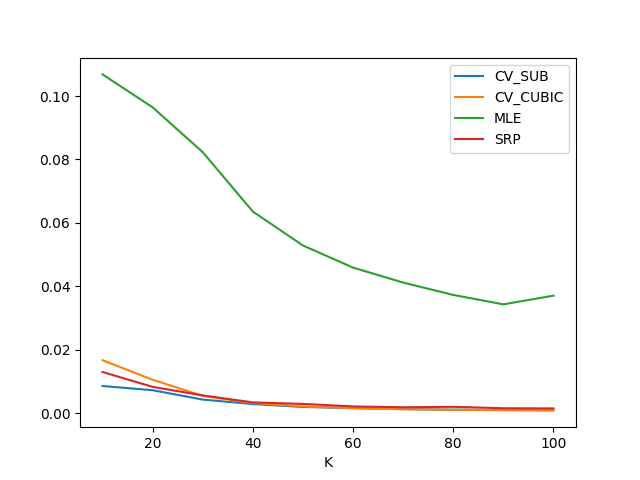
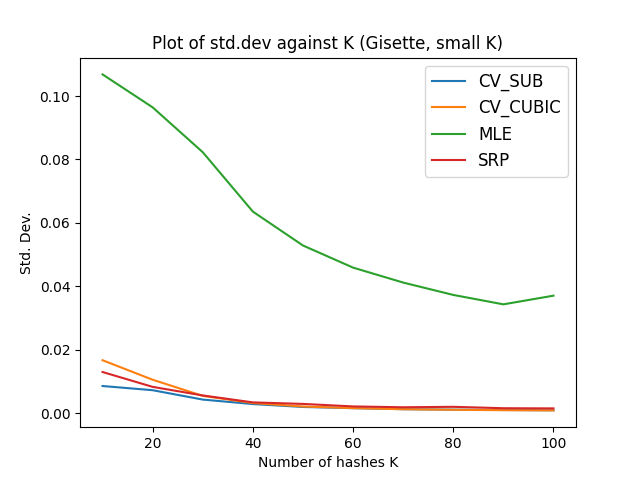
update readme, update figures

Changed region(s): [[0.2188, 0.0625, 0.9062, 0.375], [0.4062, 0.9375, 0.625, 0.9688], [0.0312, 0.4375, 0.0625, 0.5625]]

diff --git a/final/compute_est_gpu.py b/final/compute_est_gpu.py
@@ -280,6 +280,10 @@ def main():
     # higher is better, to avoid the overhead from transferring from cpu to gpu as much as possible
     # for a 6gb gpu, mnist: 120000, gisette: 32000
     batch_size = 32000
+    
+    # set the size of dimensions to check
+    Ks = range(10, 101, 10)
+    # Ks = range(800, 1001, 50)
 
     # mnist dataset
     # data, (N, _) = load_mnist()
@@ -288,10 +292,6 @@ def main():
     data, (N, _) = load_gisette()
     
     total, iters = get_iterator(N, get_all=CALC_ALL)
-    
-    # set the size of dimensions to check
-    Ks = range(10, 101, 10)
-    # Ks = range(800, 1001, 50)
 
     # load rng_state (if needed)
     # rng_s = pickle.load(open('rng_state.out', 'rb'))
@@ -307,7 +307,7 @@ def main():
                 errs = sim_one_K(K, data, iters, total, batch_size)
                 f.write(f'{K},{i_num},{",".join(str(e) for e in errs)}\n')
     
-    # if pausing: just save numpy rng state so i can restore from this point in the future
+    # if pausing: just save numpy rng state so can restore from this point in the future
     # pickle.dump(np.random.get_state(), open('rng_state.out', 'wb'))
 
 

diff --git a/graph_data.py b/graph_data.py
@@ -3,7 +3,12 @@ import matplotlib.pyplot as plt
 import numpy as np
 
 if __name__ == '__main__':
-    data = pd.read_csv('out_mnist_L.csv')
+    data = pd.read_csv('final/results/data/out_mnist.csv')
+    # data = pd.read_csv('final/results/data/out_gisette.csv')
+
+    # data = pd.read_csv('final/results/data/out_mnist_L.csv')
+    # data = pd.read_csv('final/results/data/out_gisette_L.csv')
+
 
     col_names = ['CV_SUB', 'CV_CUBIC', 'MLE', 'SRP']
     # col_names = ['CV_CUBIC', 'MLE', 'SRP']
@@ -11,11 +16,15 @@ if __name__ == '__main__':
     # col_names = ['CV_CUBIC','SRP']
 
     # m_data = data.groupby('K')[col_names].mean()
-    m_data = 3 * data.groupby('K')[col_names].std(ddof=0)
-    print(m_data)
+    m_data = data.groupby('K')[col_names].std(ddof=0)
+    # print(m_data)
 
     # min_data = m_data.idxmin(axis=1)
     # print(min_data)
 
-    # m_data.plot()
-    # plt.show()
+    m_data.plot()
+    plt.title('Plot of std.dev against K (MNIST, small K)')
+    plt.xlabel('Number of hashes K')
+    plt.ylabel('Std. Dev.')
+    plt.legend(fontsize=12)
+    plt.show()

diff --git a/final/gisette.py b/final/gisette.py
@@ -1,8 +1,8 @@
 import numpy as np
-d1 = np.genfromtxt('data/gisette_train.data')
-d2 = np.genfromtxt('data/gisette_valid.data')
-d3 = np.genfromtxt('data/gisette_test.data')
+d1 = np.genfromtxt('gisette_train.data')
+d2 = np.genfromtxt('gisette_valid.data')
+d3 = np.genfromtxt('gisette_test.data')
 data = np.concatenate((d1, d2, d3), axis=0)
 
-with open('data/gisette.npy', 'wb') as f:
+with open('gisette.npy', 'wb') as f:
     np.save(f, data)

diff --git a/final/README.md b/final/README.md
@@ -1,26 +1,46 @@
-# Name of project
+# Control Variates with 1 Extra Vector
 
-Brief description
+## Abstract
+We present an alternative technique for similarity estimation under locality sensitive hashing schemes. By utilising control variates, we are able to achieve better theoretical variance reductions compared to methods that rely on maximum likelihood estimation. We show that our method obtains equivalent results, but slight modifications can provide better empirical results at lower dimensions. Finally, we compare the various methods' performances on the MNIST and Gisette dataset, and show that our model achieves better accuracy and stability.
 
-Insert other stuff here (like paper or whatever)
+*Paper to be added at a later date.*
 
 ## Requirements
+The code is written in Python3.
 
-pytorch
-numpy
-sklearn
-tqdm
+To install the required libraries, run `pip install -r requirements.txt`.
 
-(generate requirements.txt)
+The main libraries used are `numpy` and `pytorch`. Other libraries have been imported for ease of use.
 
-## How-to
+## Basic Instructions
+1) First download Gisette data from https://archive.ics.uci.edu/ml/machine-learning-databases/gisette/GISETTE/.
 
-Need to first download Gisette data at ...
+2) Run `mnist.py` to download MNIST dataset.
 
-Run mnist.py to download MNIST dataset
+3) Run `gisette.py` to combine Gisette dataset
 
-Run gisette.py to combine Gisette dataset
+4) Create a folder called `data/` and place the generated files `mnist.pkl` and `gisette.npy` within
 
-Folder structure
+5) Run `compute_est_gpu.py`. In the `main` function, there are the following lines (lines: 288-292):
+    ```python
+    # mnist dataset
+    data, (N, _) = load_mnist()
+        
+    # gisette dataset
+    data, (N, _) = load_gisette()
+    ```
+    Comment out the respective line to either use the MNIST dataset or the Gisette dataset
 
-Edit variables in compute_est_gpu.py
+    Other important lines are the following (also in `main`, lines 282-286):
+    ```python
+    # batch size depends on gpu memory
+    # higher is better, to avoid the overhead from transferring from cpu to gpu as much as possible
+    # for a 6gb gpu, mnist: 120000, gisette: 32000
+    batch_size = 32000
+
+    # set the size of dimensions to check
+    Ks = range(10, 101, 10)
+    # Ks = range(800, 1001, 50)
+    ```
+
+    Constants (which are in `ALL_CAPS`) can also be modified as needed.
